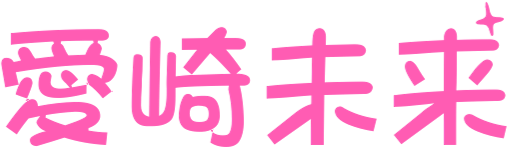
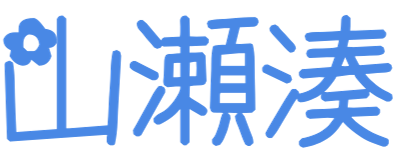
modify:切換角色為山瀨湊、切換主題色為藍色

diff --git a/app/pages/index.vue b/app/pages/index.vue
@@ -9,8 +9,8 @@
       <div class="right_box">
         <div class="intro">
           <h1>
-            愛崎未来
-            <span>Aisaki Mirai</span>
+            山瀬湊
+            <span>Yamase Minato</span>
           </h1>
           <p class="catch">「{{ $t('intro.hello') }}」</p>
           <p class="txt">
@@ -20,14 +20,14 @@
             {{ $t('intro.text4') }}<br>
           </p>
           <div>
-            <GeneralSound src="https://chobit.cc/embed/cvzyw/4j3sg0jq" />
+            <GeneralSound src="https://chobit.cc/embed/4hhfx/9kgirwpp" />
           </div>
           <div>
             <el-row :gutter="16" class="link-grid">
               <el-col :xs="24" :sm="12">
                 <el-card class="link-card" body-style="padding:0" shadow="never">
-                  <a href="https://x.com/Mirai_Aisaki_" class="link-card__inner">
-                    <span>愛崎未来 - X</span>
+                  <a href="https://x.com/Minato_Yamase" class="link-card__inner">
+                    <span>山瀬湊 - X</span>
                     <span class="arrow">›</span>
                   </a>
                 </el-card>
@@ -179,7 +179,7 @@ const localePath = useLocalePath()
 }
 
 .link-card {
-  border: 1.5px solid var(--el-color-danger-light-3);
+  border: 1.5px solid #467bd1;
   border-radius: 10px;
   overflow: hidden;
 }
@@ -192,7 +192,7 @@ const localePath = useLocalePath()
   padding: 6px 18px;
   text-decoration: none;
   font-weight: 600;
-  color: var(--el-color-danger-light-3);
+  color: #467bd1;
 }
 
 .link-card:hover {

diff --git a/app/components/product/card.vue b/app/components/product/card.vue
@@ -89,7 +89,7 @@ const handleTag = async (tag:string) => {
   font-size: 1.05rem;
   font-weight: 600;
   margin-bottom: 6px;
-  color: #d1468e;
+  color: #467bd1;
   word-break: break-word;
   display: -webkit-box;
   -webkit-line-clamp: 2;
@@ -116,7 +116,7 @@ const handleTag = async (tag:string) => {
 }
 
 .price {
-  color: #e567ab;
+  color: #467bd1;
   font-size: 1.1rem;
   font-weight: bold;
   letter-spacing: 0.5px;
@@ -125,7 +125,7 @@ const handleTag = async (tag:string) => {
 .views {
   margin-left: 4px;
   background: #fff0f8;
-  color: #d1468e;
+  color: #467bd1;
   border-radius: 10px;
 }
 </style>

diff --git a/app/components/general/header.vue b/app/components/general/header.vue
@@ -1,6 +1,6 @@
 <template>
-  <el-menu mode="horizontal" :default-active="$route.path" :ellipsis="false" background-color="#ffA5A5"
-    text-color="#333" style="border-bottom-width: 0px" active-text-color="#FF5CB3" class="el-menu-demo"
+  <el-menu mode="horizontal" :default-active="$route.path" :ellipsis="false" background-color="#97CBFF"
+    text-color="#333" style="border-bottom-width: 0px" active-text-color="#4676ce" class="el-menu-demo"
     @select="onSelect">
     <!-- 1) Logo：用 margin-right:auto 撐開左右 -->
     <el-menu-item :index="localePath('/')">

diff --git a/app/components/general/mobileHeader.vue b/app/components/general/mobileHeader.vue
@@ -1,6 +1,6 @@
 <template>
-  <el-menu mode="horizontal" :default-active="$route.path" :ellipsis="false" background-color="#ffA5A5"
-    text-color="#333" style="border-bottom-width: 0px" active-text-color="#FF5CB3" class="el-menu-demo"
+  <el-menu mode="horizontal" :default-active="$route.path" :ellipsis="false" background-color="#97CBFF"
+    text-color="#333" style="border-bottom-width: 0px" active-text-color="#4676ce" class="el-menu-demo"
     @select="onSelect">
     <!-- 1) Logo：用 margin-right:auto 撐開左右 -->
     <el-menu-item :index="localePath('/')">

diff --git a/app/components/general/footer.vue b/app/components/general/footer.vue
@@ -50,7 +50,7 @@
 
 .footer {
   height: 60px;
-  background: #ffd2d2;
+  background: #ACD6FF;
   padding: 1rem;
   text-align: center;
   font-size: 0.875rem;
@@ -70,7 +70,7 @@
 }
 
 .link-card {
-  border: 1.5px solid var(--el-color-danger-light-3);
+  border: 1.5px solid #467bd1;
   border-radius: 10px;
   overflow: hidden;
   width: 110px;
@@ -81,6 +81,6 @@
   padding: 6px 20px;
   text-decoration: none;
   font-weight: 600;
-  color: var(--el-color-danger-light-3);
+  color: #467bd1;
 }
 </style>

diff --git a/nuxt.config.ts b/nuxt.config.ts
@@ -5,7 +5,7 @@ export default defineNuxtConfig({
   modules: ['@nuxtjs/i18n', '@pinia/nuxt', '@element-plus/nuxt'],
   app: {
     head: {
-      title: '愛崎未来',
+      title: '山瀬湊',
       link: [
         { rel: 'icon', type: 'image/png', href: '/favicon.png' },
       ]
